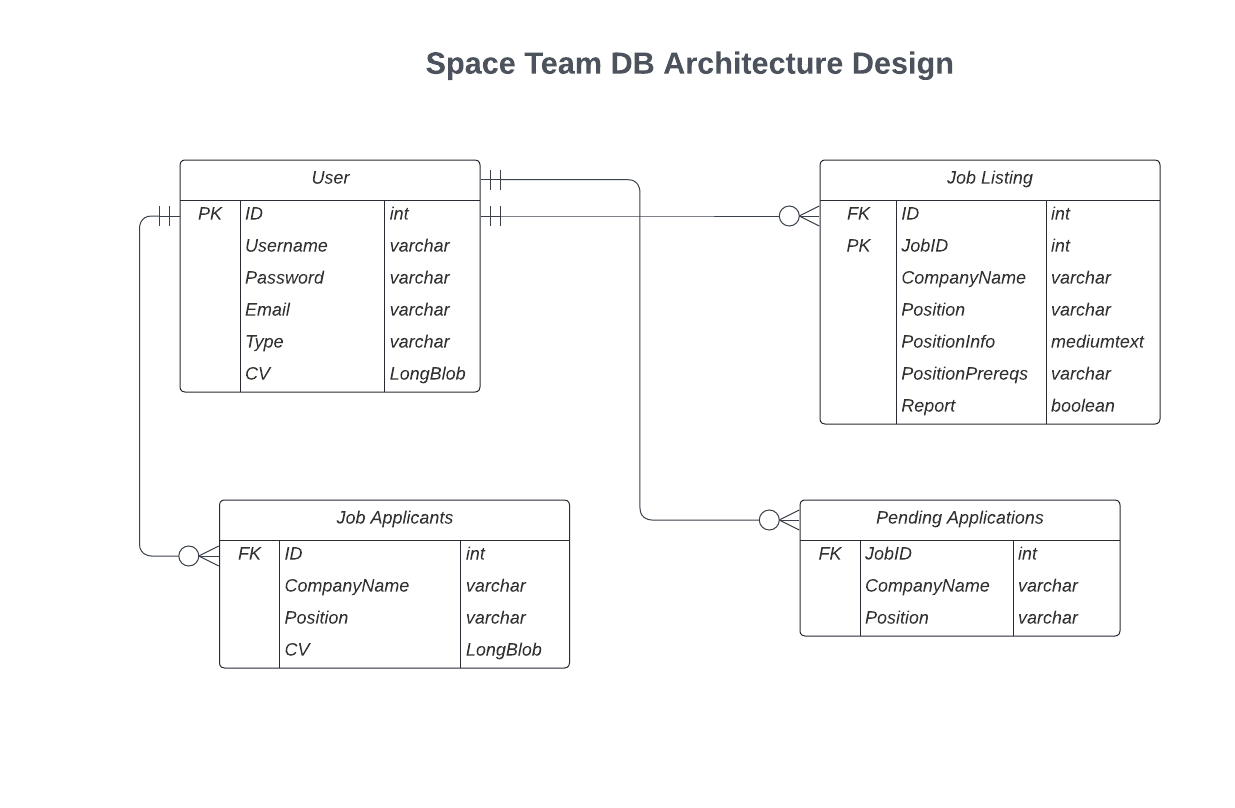
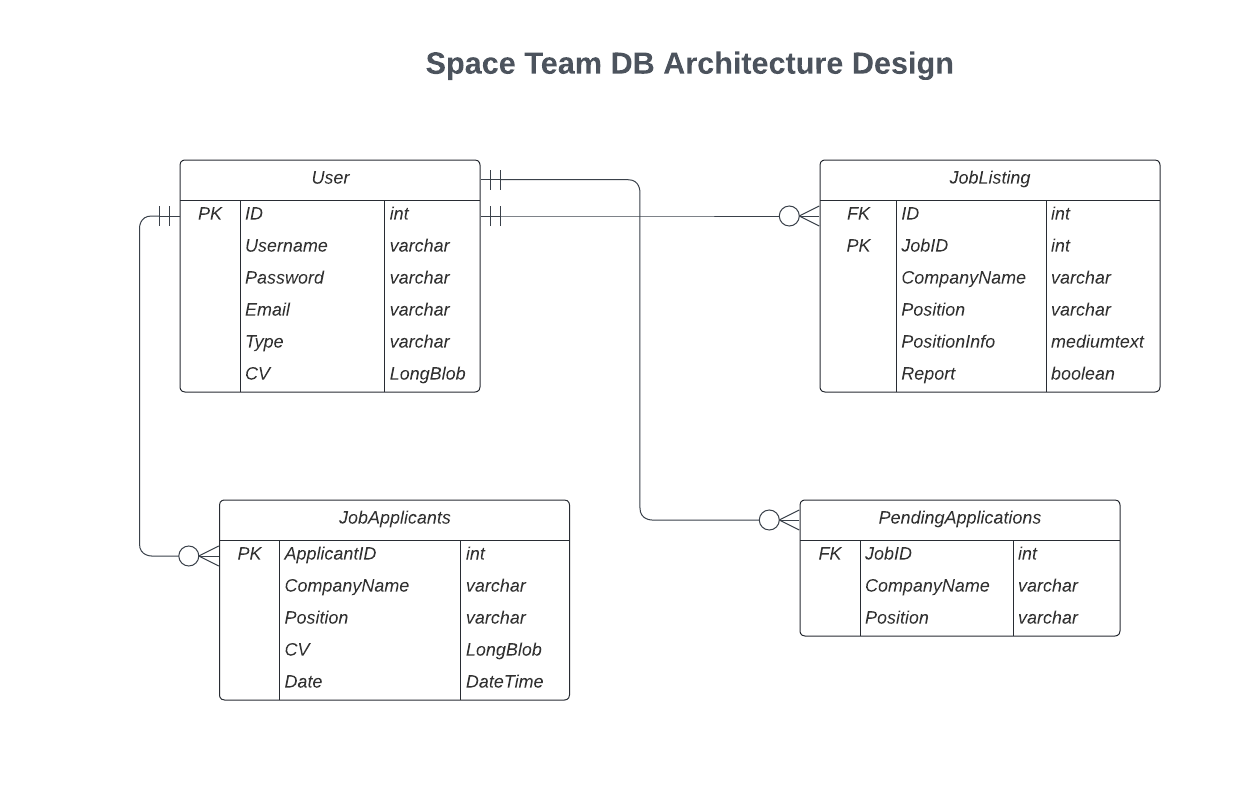
Dashboard Job listings
Worked on Employer Dashboard applications listings.

diff --git a/Server/server.js b/Server/server.js
@@ -19,6 +19,7 @@ app.use(express.json());//This is used to parse what comes
 //     database: 'default'
 // });
 
+
 //This connects to the remote db
 var db = mysql.createConnection({
     host: '143.198.41.117',
@@ -112,3 +113,71 @@ app.listen(PORT, function(err){
     console.log("Server listening on PORT", PORT);
  });
 //To run server just use "npm run dev"
+
+
+// Registering a job listing as an employer
+//Not sure if Krupesh will take over this ??
+app.post('/registerJob', function (req, res) {
+
+    //Collect information
+    const EmployerID = req.body.EmployerID; 
+    const JobID = req.body.JobID;
+
+    const CompanyName = req.body.CompanyName;
+    const Position = req.body.Position;
+    const PositionInfo = req.body.PositionInfo;
+    const Report = 0; // Every post begins with an okay status 
+
+    //Insert information into db
+    db.query(
+        "INSERT INTO JobListing(`ID`, `jobID`, `CompanyName`, `Position`, `PositionInfo`, `Report`) VALUES (?, ?, ?, ?, ?, ?);", 
+        [JobID, EmployerID, CompanyName, Position, PositionInfo, Report], function (error, results,fields) {
+            if(error){
+                console.log(error);
+                res.send(false);//An error occured
+            }
+            else {
+                console.log("A job was listed");
+                res.send(true);
+            }
+        }
+    );
+})
+
+    //Retrieve all job vacancies from job listing table
+    //Send all information received to frontend
+    app.post('/displayJobs', function(req, res) {
+
+        //collect EmployerID info
+        const EmployerID = req.body.EmployerID;
+
+        db.query(
+            "SELECT JobID, ApplicantName, ApplicantEmail, Position, Date FROM JobApplicants WHERE EmployerID = ?",
+            [EmployerID], function (error, results, fields) {
+                if(error){
+                    console.log(error);
+                }
+                else{
+                    res.send(results);
+                }
+            }
+            );
+    })
+
+
+    //Receive List of job listings from db and send information to frontend
+    app.post('/jobApplicants', function(req,res){        
+        db.query(
+            "SELECT * FROM JobListing",
+            //"SELECT CompanyName, Position, PositionInfo, Report FROM JobListing",
+            function(error, result, fields) {
+                if(error){
+                    console.log(error);
+                }
+                else{
+                    console.log(result);
+                }
+            }
+        );
+
+    })

diff --git a/Client/src/EmployerDashboard/Orders.js b/Client/src/EmployerDashboard/Orders.js
@@ -6,11 +6,16 @@ import TableCell from '@mui/material/TableCell';
 import TableHead from '@mui/material/TableHead';
 import TableRow from '@mui/material/TableRow';
 import Title from './Title';
+import { useEffect } from 'react';
+import Axios from 'axios';
 
 // Generate Order Data
 function createData(id, date, name, shipTo, paymentMethod, amount) {
   return { id, date, name, shipTo, paymentMethod, amount };
 }
+
+
+
 
 const rows = [
   createData(
@@ -53,6 +58,34 @@ function preventDefault(event) {
 }
 
 export default function Orders() {
+
+  const [rows, setRows] = React.useState([]);
+
+  //This just calls it everytime it is rendered
+useEffect(() => {
+  handleApplicantList();
+ },[])
+
+function handleApplicantList()
+{
+    //Hard code to test job applications on employer dashboard
+    const sentObj = {
+      EmployerID: 3
+    }
+      //Post changes to the server
+      Axios.post('/displayJobs', sentObj). //Figure out how to import user data!
+      then(function (response) {
+        var newData = []
+
+        response.data.forEach(element => 
+          {
+            newData.push(createData(element[''], element['Date'], element['ApplicantName'], element['Position'], element['ApplicantEmail'], element['JobID'],  "Unassigned"))
+          });
+
+          setRows([...rows, ...newData]);
+      })
+}
+
   return (
     <React.Fragment>
       <Title>Recent Applications</Title>
